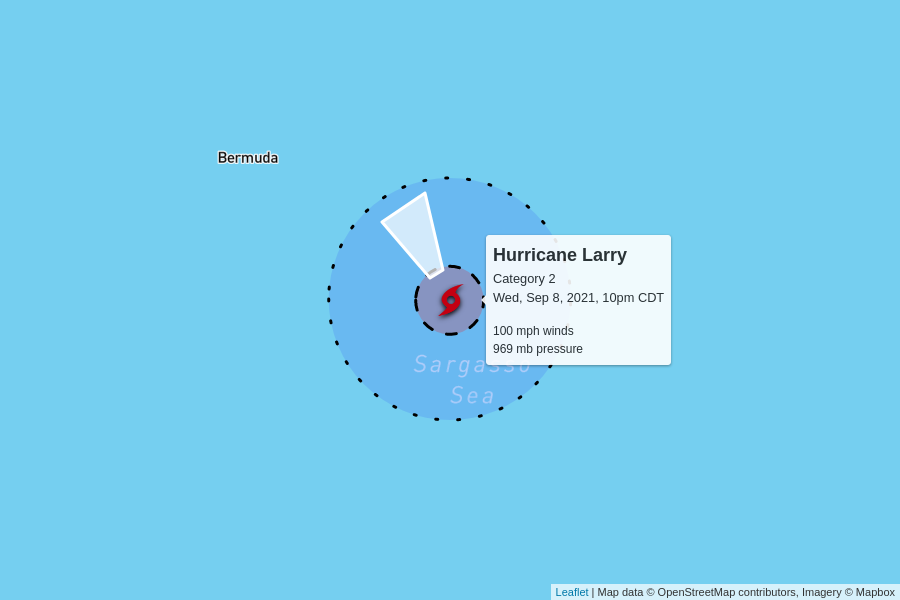
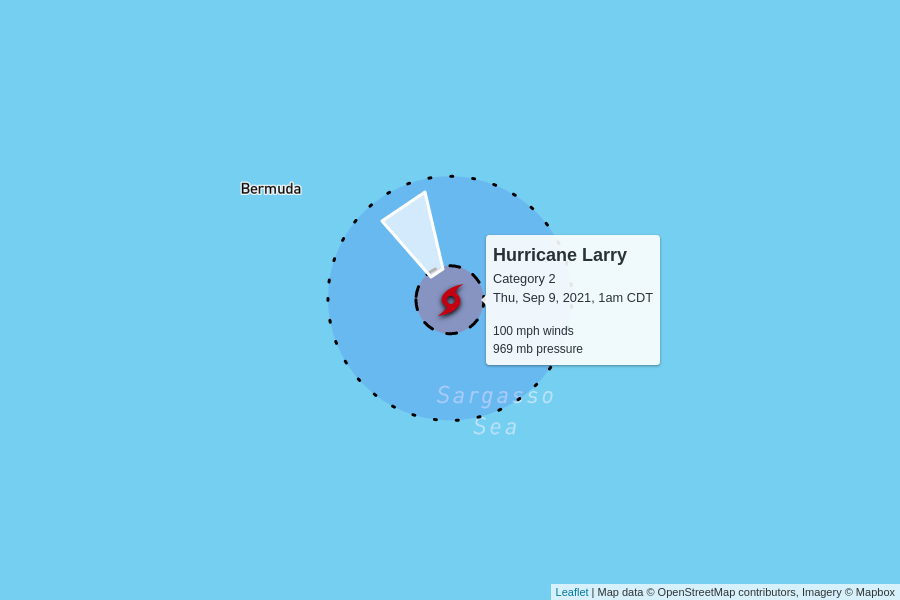
automatic update

diff --git a/docs/index.html b/docs/index.html
@@ -100,7 +100,7 @@
         <td colspan="6" class="storm category-2">
           <h2>
             Hurricane Larry - Category 2
-            <p class="updated">last updated <span data-time>2021-09-09T03:00:00.000Z</span></p>
+            <p class="updated">last updated <span data-time>2021-09-09T06:00:00.000Z</span></p>
           </h2>
         </td>
       </tr>
@@ -144,7 +144,7 @@
         <td colspan="6" class="storm category-0">
           <h2>
             Tropical Storm Mindy
-            <p class="updated">last updated <span data-time>2021-09-09T03:00:00.000Z</span></p>
+            <p class="updated">last updated <span data-time>2021-09-09T06:00:00.000Z</span></p>
           </h2>
         </td>
       </tr>
@@ -159,12 +159,12 @@
       </tr>
       <tr>
         <td class="spacer"></td>
-        <td>45 mph</td>
-        <td>1002 mb</td>
+        <td>40 mph</td>
+        <td>1003 mb</td>
         <td>
           20 mph to the northeast
           <br/>
-          <span style="display: inline-block; font-size: 1.5em; transform: rotate(55deg);">↑</span>
+          <span style="display: inline-block; font-size: 1.5em; transform: rotate(50deg);">↑</span>
         </td>
         <td><a href="https://raw.githubusercontent.com/mgwalker/atlantic-hurricanes/main/data/csv/AL132021.csv">AL132021.csv</a></td>
         <td><a href="https://www.nhc.noaa.gov/archive/2021/MINDY.shtml?">NHC advisories</a></td>
